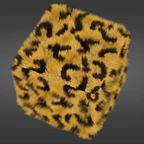
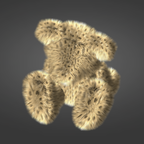
More customizable parameters

diff --git a/js/app/FurRenderer.js b/js/app/FurRenderer.js
@@ -50,8 +50,14 @@ define([
                 this.matOrtho = MatrixUtils.mat4.create();
                 MatrixUtils.mat4.ortho(this.matOrtho, -1, 1, -1, 1, 2.0, 250);
 
+                //Conditionals
+                this.renderFins = true;
+                this.renderShells = true;
+                this.renderFur = true;
+                this.finOpacity = false;
+
                 //Light
-                this.lightPos = [1000.0, 1000.0, 1000.0]; //point light //z,x,y for some reason
+                this.lightPos = [1000.0, 1000.0, 1000.0]; //point light //z,x,y because up is the last coord
                 this.lightColor = [1.0, 0.98, 0.92];
                 this.lightIntensity = 1.0;
                 this.shadowsEnabled = true;
@@ -302,14 +308,14 @@ define([
                 gl.cullFace(gl.BACK);
 
                 //Shadow mapping pass
-                if(this.shadowsEnabled){
-                    
+                if (this.shadowsEnabled) {
+
                     gl.bindFramebuffer(gl.FRAMEBUFFER, this.depthFramebuffer);
                     gl.viewport(0, 0, this.depthTextureSize, this.depthTextureSize);
                     gl.clear(gl.COLOR_BUFFER_BIT | gl.DEPTH_BUFFER_BIT);
-                    
-                    
-                    
+
+
+
                     this.positionCamera(this.lightPos, [0, 0, 0], [0, 0, 1]);
                     this.setCameraFOV(0.6);
                     this.shadowMapShader.use();
@@ -327,7 +333,7 @@ define([
                 gl.depthMask(false);
                 this.drawVignette(this.textureBackground);
                 gl.depthMask(true);
-                
+
                 this.positionCamera([190, 0, 270], [0, 0, 0], [0, 0, 1]);
                 this.setCameraFOV(0.6);
 
@@ -341,7 +347,9 @@ define([
                 // gl.blendFunc(gl.SRC_ALPHA, gl.ONE); // too bright
                 // gl.blendFuncSeparate(gl.SRC_ALPHA, gl.ONE_MINUS_SRC_ALPHA, gl.ZERO, gl.ONE);
 
-                this.drawFur(this.textureFurDiffuse, this.textureFurAlpha, this.currentPreset);
+                if (this.renderFur) {
+                    this.drawFur(this.textureFurDiffuse, this.textureFurAlpha, this.currentPreset);
+                }
 
                 gl.disable(gl.BLEND);
             }
@@ -378,7 +386,10 @@ define([
                 this.shaderFin.use();
                 this.setTexture2D(0, textureDiffuse, this.shaderFin.diffuseMap);
                 this.setTexture2D(1, this.textureFinAlpha, this.shaderFin.alphaMap);
-                this.drawFinsVBOTranslatedRotatedScaled(preset, this.shaderFin, this.modelCube, 0, 0, 0, 0, this.anglePitch, this.angleYaw, 1, 1, 1);
+
+                if (this.renderFins) {
+                    this.drawFinsVBOTranslatedRotatedScaled(preset, this.shaderFin, this.modelCube, 0, 0, 0, 0, this.anglePitch, this.angleYaw, 1, 1, 1);
+                }
 
                 gl.depthMask(true);
                 // gl.enable(gl.BLEND);
@@ -388,7 +399,10 @@ define([
                 this.shaderShell.use();
                 this.setTexture2D(0, textureDiffuse, this.shaderShell.diffuseMap);
                 this.setTexture2D(1, textureAlpha, this.shaderShell.alphaMap);
-                this.drawShellsVBOTranslatedRotatedScaledInstanced(preset, this.shaderShell, this.modelCube, 0, 0, 0, 0, this.anglePitch, this.angleYaw, 1, 1, 1);
+
+                if (this.renderShells) {
+                    this.drawShellsVBOTranslatedRotatedScaledInstanced(preset, this.shaderShell, this.modelCube, 0, 0, 0, 0, this.anglePitch, this.angleYaw, 1, 1, 1);
+                }
 
             }
 
@@ -469,6 +483,8 @@ define([
                 gl.uniform1f(shader.diffusePower, this.diffusePower);
                 gl.uniform1f(shader.specularPower, this.specularPower);
 
+                gl.uniform1i(shader.finOpacity, this.finOpacity);
+
                 gl.drawElements(gl.TRIANGLES, model.numFinIndices, gl.UNSIGNED_SHORT, 0);
 
             }
@@ -498,7 +514,7 @@ define([
 
             createDepthFBO() {
 
-               
+
                 this.depthTexture = gl.createTexture();
                 this.depthTextureSize = 1024;
                 gl.bindTexture(gl.TEXTURE_2D, this.depthTexture);

diff --git a/index.html b/index.html
@@ -7,7 +7,7 @@
     <meta name="viewport" content="width=device-width, initial-scale=1">
     <meta name="description" content="HairFur 3D WebGL Demo">
     <meta name="author" content="Oleksandr Popov and Antonio Espinosa">
-    <link rel="apple-touch-icon" sizes="57x57" href="/icons/apple-icon-57x57.png">
+    <!-- <link rel="apple-touch-icon" sizes="57x57" href="/icons/apple-icon-57x57.png">
     <link rel="apple-touch-icon" sizes="60x60" href="/icons/apple-icon-60x60.png">
     <link rel="apple-touch-icon" sizes="72x72" href="/icons/apple-icon-72x72.png">
     <link rel="apple-touch-icon" sizes="76x76" href="/icons/apple-icon-76x76.png">
@@ -19,7 +19,7 @@
     <link rel="icon" type="image/png" sizes="192x192" href="/icons/android-icon-192x192.png">
     <link rel="icon" type="image/png" sizes="32x32" href="/icons/favicon-32x32.png">
     <link rel="icon" type="image/png" sizes="96x96" href="/icons/favicon-96x96.png">
-    <link rel="icon" type="image/png" sizes="16x16" href="/icons/favicon-16x16.png">
+    <link rel="icon" type="image/png" sizes="16x16" href="/icons/favicon-16x16.png"> -->
     <link rel="manifest" href="/manifest.json">
     <meta name="msapplication-TileColor" content="#cccccc">
     <meta name="msapplication-TileImage" content="/icons/ms-icon-144x144.png">
@@ -74,6 +74,28 @@
                             <label class="control-label text-right">
                                 <h3>Fur Properties</h3>
                         </div>
+                        <div class="form-group">
+
+                            <div class="row">
+                                <label class="col-sm-3 control-label text-left">
+                                    Render Fur
+                                    <input class="form-check-input" type="checkbox" value="" id="renderFur" checked>
+                                </label>
+                                <label class="col-sm-3 control-label text-left">
+                                    Render Fins
+                                    <input class="form-check-input" type="checkbox" value="" id="renderFins" checked>
+                                </label>
+                                <label class="col-sm-3 control-label text-left">
+                                    Fin opacity
+                                    <input class="form-check-input" type="checkbox" value="" id="finOpacity" unchecked>
+                                </label>
+                                <label class="col-sm-3 control-label text-left">
+                                    Render Shells
+                                    <input class="form-check-input" type="checkbox" value="" id="renderShells" checked>
+                                </label>
+                            </div>
+                        </div>
+                        </br>
                         <div class="form-group">
                             <label class="col-sm-3 control-label text-left">
                                 Number of Layers
@@ -157,8 +179,7 @@
                             <label class="col-sm-3 control-label text-left">
                                 Light Color
                             </label>
-                            <input type="color" id="lightColor" name="lightColor" 
-                                   value="#fffefa" size="500">
+                            <input type="color" id="lightColor" name="lightColor" value="#fffefa" size="500">
                         </div>
 
                         <div class="form-group">
@@ -195,6 +216,7 @@
                                     data-slider-value="64">
                             </div>
                         </div>
+
                     </form>
                     <div class="well well-sm">
                         Credits to Antonio Espinosa. Basic renderer framework made by Oleksandr Popov.

diff --git a/js/app/FinShader.js b/js/app/FinShader.js
@@ -71,6 +71,8 @@ define(['framework/BaseShader'], function (BaseShader) {
                 'uniform vec3 lightColor;\n' +
                 'uniform float intensity;\n' +
 
+                'uniform int finOpacity;\n' +
+
                 'out vec4 fragColor;\n' +
 
                 ' uniform float Sa;\n' +
@@ -85,17 +87,22 @@ define(['framework/BaseShader'], function (BaseShader) {
                 'vec4 computeHairLighting();\n' +
                 '\n' +
                 'void main() {\n' +
+                '  float alpha;\n' +
+                '  if(finOpacity==1){\n' +
+                '  alpha = 1.0;\n' +
+                '  }else{\n' +
                 '  float p = dot(normalize(-vPos),normalize(finNormal));\n' +
                 '  p = 1.0-p;\n' +
-                '  float alpha = max(0.0,2.0*abs(p)-1.0);\n' +
-                '  alpha = alpha*texture(alphaMap, vTextureCoord).r;\n' +
+                '  alpha = max(0.0,2.0*abs(p)-1.0);\n' +
+                '  }\n' +
+                '   float outAlpha = alpha*texture(alphaMap, vTextureCoord).r;\n' +
                 '   Ka = texture(diffuseMap, vTextureCoord).rgb;\r\n' +
                 '   Kd = Ka;' +
                 '   Ks = 0.1;\r\n' +
 
                 '  fragColor=computeHairLighting();\r\n' +
                 '  fragColor*=vAO;\r\n' +
-                '  fragColor.a = alpha*k_alpha;\r\n' +
+                '  fragColor.a = outAlpha*k_alpha;\r\n' +
                 // '  fragColor =vec4(1, 0, 0, alpha);\n' +
                 // '  fragColor =vec4(1, 0, 0, 1);\n' +
                 '}\n' +
@@ -164,6 +171,8 @@ define(['framework/BaseShader'], function (BaseShader) {
             this.ambientStrength = this.getUniform('Sa');
             this.diffusePower = this.getUniform('Pd');
             this.specularPower = this.getUniform('Ps');
+
+            this.finOpacity = this.getUniform('finOpacity');
 
         }
     }

diff --git a/js/app/main.js b/js/app/main.js
@@ -107,7 +107,18 @@ define([
             // $('#lightColor').on('change', function(e) {
             //     renderer.lightColor = e.value.newValue;
             // });
-           
+            $('#renderFins').on('change', function () {
+                if(renderer.renderFins){renderer.renderFins=false}else{renderer.renderFins=true};
+            });
+            $('#renderShells').on('change', function () {
+                if(renderer.renderShells){renderer.renderShells=false}else{renderer.renderShells=true};
+            });
+            $('#renderFur').on('change', function () {
+                if(renderer.renderFur){renderer.renderFur=false}else{renderer.renderFur=true};
+            });
+            $('#finOpacity').on('change', function () {
+                if(renderer.finOpacity){renderer.finOpacity=false}else{renderer.finOpacity=true};
+            });
            
 
 
